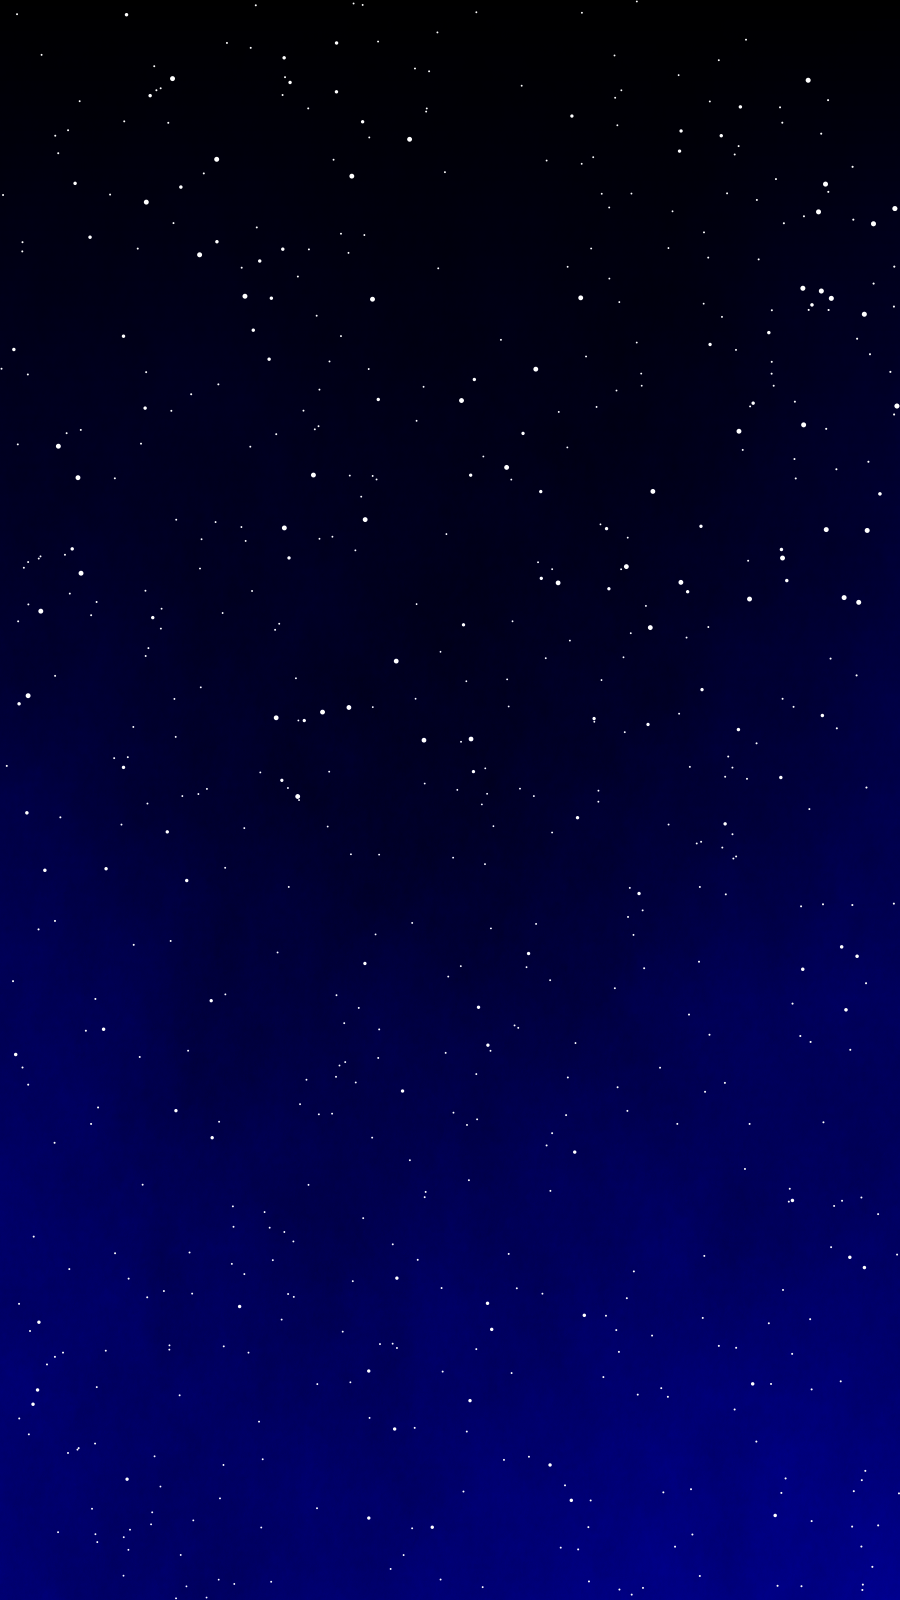
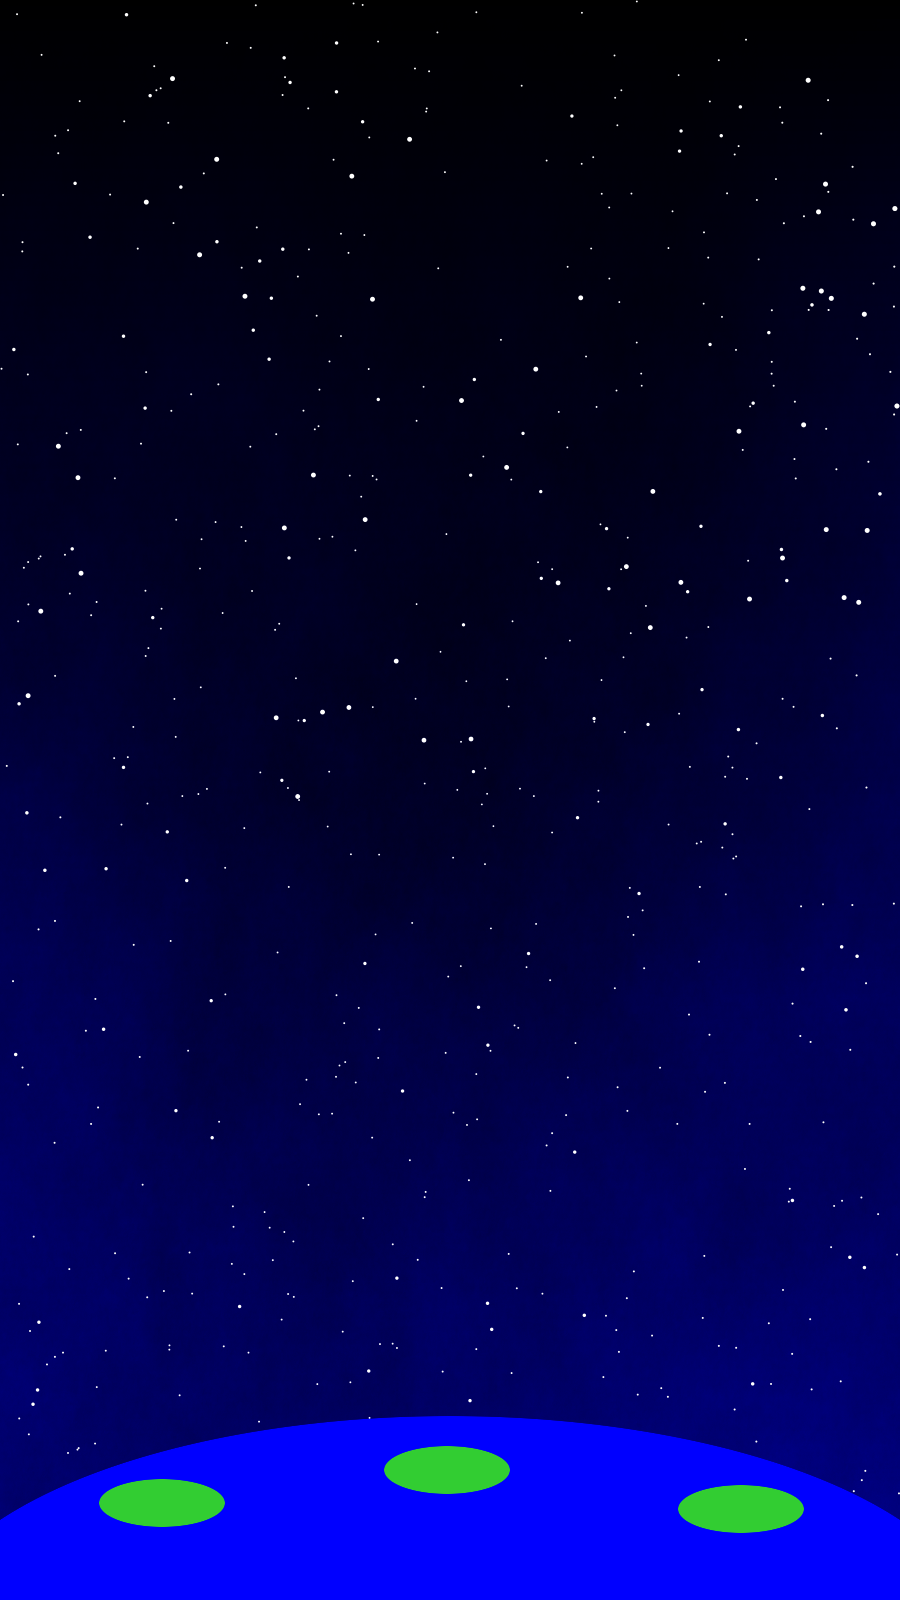
Update 弾の射出角度によってプレイヤー(壺)の角度を変更するようにしました

Changed region(s): [[0.0, 0.875, 1.0, 1.0]]

diff --git a/app/src/main/java/jp/ac/it_college/std/s15008/shootinggame/Mode/GameObject/Player.java b/app/src/main/java/jp/ac/it_college/std/s15008/shootinggame/Mode/GameObject/Player.java
@@ -2,6 +2,7 @@ package jp.ac.it_college.std.s15008.shootinggame.Mode.GameObject;
 
 import android.graphics.Bitmap;
 import android.graphics.Canvas;
+import android.graphics.Color;
 import android.graphics.Paint;
 import android.graphics.Rect;
 import android.util.Log;
@@ -19,31 +20,63 @@ import jp.ac.it_college.std.s15008.shootinggame.GameView;
 public class Player extends BaseObject {
     private static final String TAG = "Player";
 
-    private static final int SIZE = 80;
 
+    // 自機
+    private static final int WIDTH = 0;
+    private static final int HEIGHT = 0;
+    private static final int CENTER_X = 450;
+    private static final int CENTER_Y = 1480;
+    private static final int SIZE = 80;
+    private static final int LIFE_MAX = 10;
     private Bitmap mBitmap;
     public Rect mRect;
     private Paint mPaint;
+    private int mLifePoint;
+    private float mRod;
+
+    // 地表
+    private final int GROUND_HEIGHT = 100;
+    public Rect mRectGround;
+
+    // debug
+    private final Paint dPaint = new Paint();
 
 
     public Player(Bitmap bitmap) {
+        // 自機
         mPaint = new Paint();
         this.mBitmap = bitmap;
         mRect = new Rect();
         mR = SIZE;
+        mRod = 0f;
+
+        // 地表
+        mRectGround = new Rect(0, (GameView.GAME_HEIGHT - GROUND_HEIGHT),
+                GameView.GAME_WIDTH, GameView.GAME_HEIGHT);
+
+        // debug
+        dPaint.setColor(Color.RED);
+        dPaint.setStyle(Paint.Style.STROKE);
+        dPaint.setStrokeWidth(10);
 
         init();
     }
 
     void init() {
-        // 初期位置の指定(真ん中下らへん)
+        mLifePoint = LIFE_MAX;
+
+        // 初期位置の指定
         int width = mBitmap.getWidth();
         int height = mBitmap.getHeight();
-        int left = (GameView.GAME_WIDTH / 2) - (width / 2);
-        int top = (GameView.GAME_HEIGHT - (GameView.GAME_HEIGHT / 4)) - (height / 2);
+        int left = CENTER_X - (width / 2);
+        int top = CENTER_Y - height;
         int right = left + width;
         int bottom = top + height;
         mRect.set(left, top, right, bottom);
+
+        // 将来的にこっちに移行(円形での処理)
+        mCenterX = mRect.centerX();
+        mCenterY = mRect.centerY();
     }
 
     public void set(int centerX, int centerY) {
@@ -58,6 +91,11 @@ public class Player extends BaseObject {
 
     public void hit() {
         Log.d(TAG, "hit");
+        mLifePoint--;
+
+        if (mLifePoint <= 0) {
+            Log.d(TAG, "Game over");
+        }
     }
 
     @Override
@@ -67,8 +105,22 @@ public class Player extends BaseObject {
     @Override
     public void draw(Canvas canvas) {
         canvas.save();
+        // プレイヤー
+        canvas.rotate(mRod, mCenterX, mCenterY);
         canvas.translate(-(mBitmap.getWidth()/2), -(mBitmap.getHeight()/2));
-        canvas.drawBitmap(mBitmap, mRect.centerX(), mRect.centerY(), mPaint);
+        canvas.drawBitmap(mBitmap, mCenterX, mCenterY, mPaint);
         canvas.restore();
+
+        // 地表
+        canvas.drawRect(mRectGround, dPaint);
+    }
+
+    public void setAngle(float x, float y) {
+        mRod = getDegree(mCenterX, mCenterY, x, y) + 90;
+    }
+
+    private float getDegree(float x, float y, float x2, float y2) {
+        double radian = Math.atan2(y2 - y,x2 - x);
+        return (float) (radian * 180d / Math.PI);
     }
 }

diff --git a/app/src/main/java/jp/ac/it_college/std/s15008/shootinggame/Mode/GameObject/EnemyManager.java b/app/src/main/java/jp/ac/it_college/std/s15008/shootinggame/Mode/GameObject/EnemyManager.java
@@ -26,8 +26,6 @@ import jp.ac.it_college.std.s15008.shootinggame.Mode.GameMode;
 public class EnemyManager {
     private static final String TAG = "EnemyManager";
 
-    private static final int EN_MAX_LEVEL_1 = 10;
-
     private Context mContext;
     private long mStartTime;
 
@@ -58,39 +56,29 @@ public class EnemyManager {
     }
 
     public void createEnemyList(int level) {
-        if (level == 1) {
-            // ステージデータの読み込み
-            String fileName = "stage_data/stage1.json";
-            String text = null;
-            try {
-                text = loadTextAsset(fileName, mContext);
-            } catch (IOException e) {
-                e.printStackTrace();
-            }
-            // エネミーデータへの変換
-            List<JsonParser.EnemyData> enemyDataList = JsonParser.parseToEnemyDataList(text);
-            Log.d(TAG, enemyDataList.toString());
+        // ステージデータの読み込み
+        String fileName = String.format("stage_data/stage%d.json", level);
+        String text = null;
+        try {
+            text = loadTextAsset(fileName, mContext);
+        } catch (IOException e) {
+            e.printStackTrace();
+        }
 
-            // エネミーオブジェクトの生成
-            mEnemyList.clear();
-            for (JsonParser.EnemyData enemyData : enemyDataList) {
-                Enemy enemy = new Enemy(mBitmapEnemyCarrot);
-                int type = enemyData.mType;
-                float x = enemyData.mX;
-                float y = enemyData.mY;
-                long launch = enemyData.mLaunchTime;
-                enemy.set(type, x, y, launch, 0);
-                mEnemyList.add(enemy);
-            }
+        // エネミーデータへの変換
+        List<JsonParser.EnemyData> enemyDataList = JsonParser.parseToEnemyDataList(text);
+        Log.d(TAG, enemyDataList.toString());
 
-//            for (int i = 0; i < enemyDataList.size(); i++) {
-//                Enemy enemy = new Enemy(mBitmapEnemyCarrot);
-//                int rand = new Random().nextInt(3);
-//                int w = GameView.GAME_WIDTH - (int) enemy.mR;
-//                int x = ((w / 3) * rand) + (int) enemy.mR / 2;
-//                enemy.set(0, x, 0, 1000 + 1000*i, 0);
-//                mEnemyList.add(enemy);
-//            }
+        // エネミーオブジェクトの生成
+        mEnemyList.clear();
+        for (JsonParser.EnemyData enemyData : enemyDataList) {
+            Enemy enemy = new Enemy(mBitmapEnemyCarrot);
+            int type = enemyData.mType;
+            float x = enemyData.mX;
+            float y = enemyData.mY;
+            long launch = enemyData.mLaunchTime;
+            enemy.set(type, x, y, launch, 0);
+            mEnemyList.add(enemy);
         }
     }
 

diff --git a/app/src/main/java/jp/ac/it_college/std/s15008/shootinggame/Mode/GameObject/Enemy.java b/app/src/main/java/jp/ac/it_college/std/s15008/shootinggame/Mode/GameObject/Enemy.java
@@ -18,14 +18,15 @@ public class Enemy extends BaseObject {
         STRAIGHT,
     }
 
+    private final int MOVE_WEIGHT = 5;
     public boolean mIsLaunched;
     public boolean mIsAlive;
     private Bitmap mBitmap;
     private Paint mPaint;
-    private final int MOVE_WEIGHT = 5;
     private float mAlignX;
     public float mLaunchTime;
     public int mType;
+
 
     public Enemy(Bitmap bitmap) {
         mPaint = new Paint();
@@ -80,5 +81,13 @@ public class Enemy extends BaseObject {
         canvas.translate(-(mBitmap.getWidth() / 2), -(mBitmap.getHeight() / 2));
         canvas.drawBitmap(mBitmap, mCenterX, mCenterY, mPaint);
         canvas.restore();
+    }
+
+    public boolean isHitGround(int groundX) {
+        if (mCenterY + mR >= groundX) {
+            return true;
+        }
+
+        return false;
     }
 }

diff --git a/app/src/main/java/jp/ac/it_college/std/s15008/shootinggame/Mode/GameObject/BaseObject.java b/app/src/main/java/jp/ac/it_college/std/s15008/shootinggame/Mode/GameObject/BaseObject.java
@@ -1,6 +1,7 @@
 package jp.ac.it_college.std.s15008.shootinggame.Mode.GameObject;
 
 import android.graphics.Canvas;
+import android.graphics.Rect;
 
 /**
  * Created by s15008 on 17/02/06.
